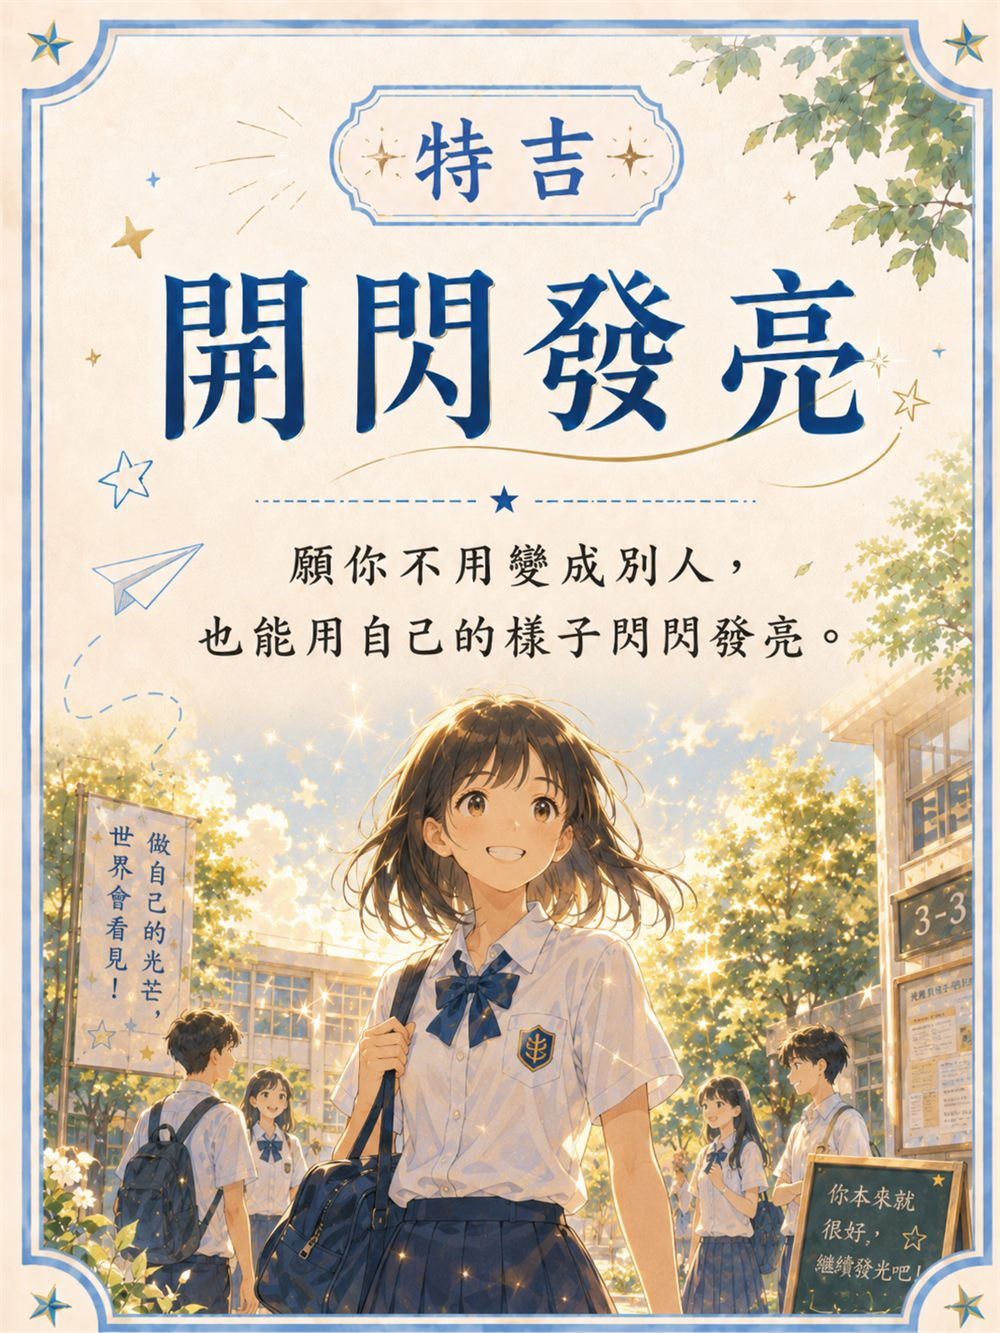
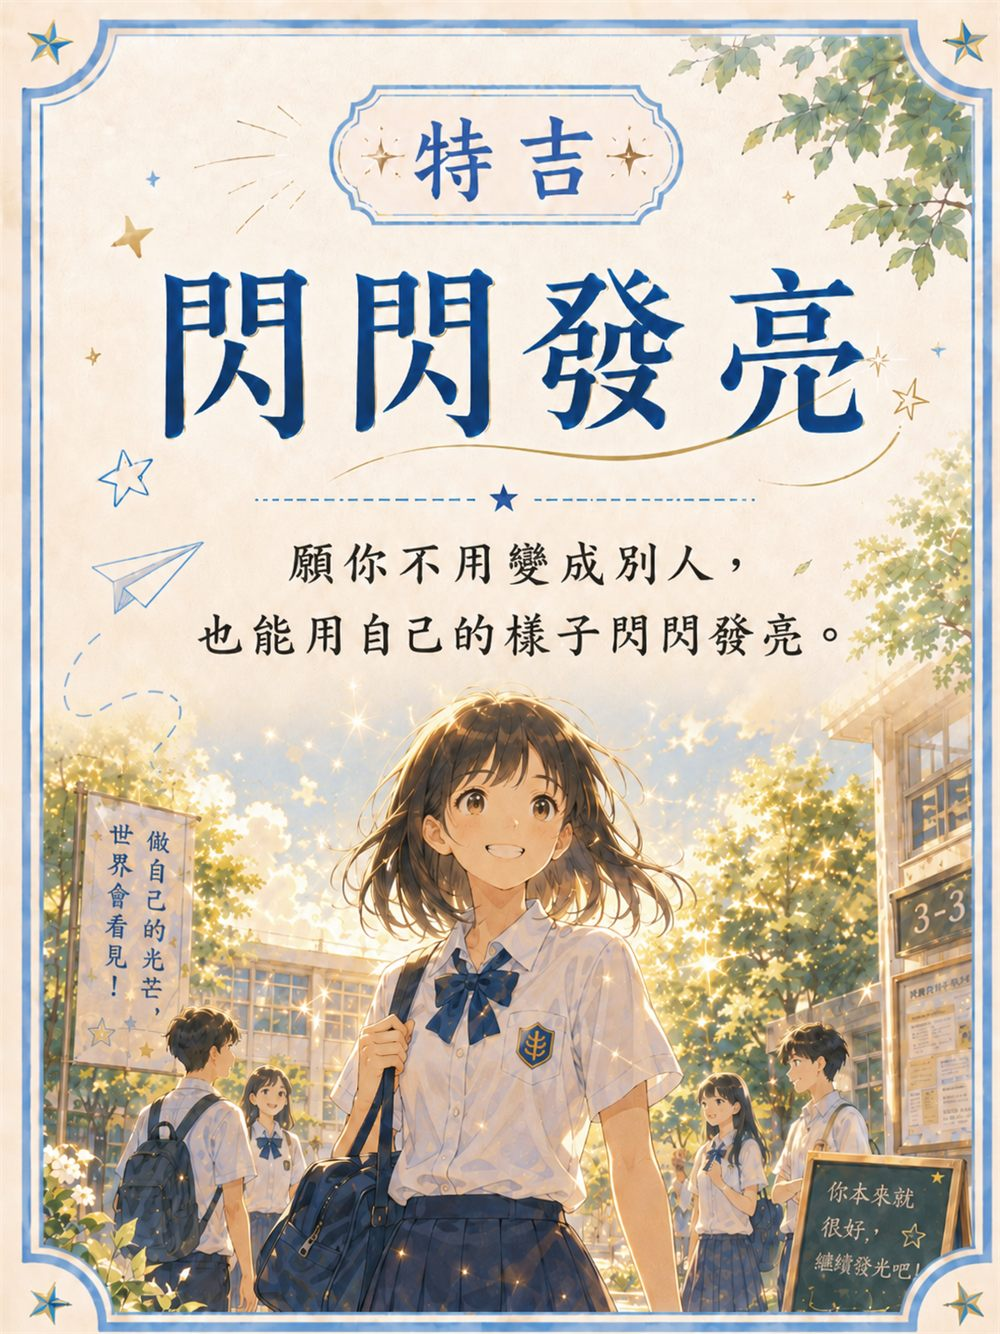
Update card28 image

diff --git a/index.html b/index.html
@@ -354,7 +354,7 @@
     const remainingCount = document.querySelector("#remainingCount");
     const drawnCount = document.querySelector("#drawnCount");
     const resultText = document.querySelector("#resultText");
-    const assetVersion = "20260611-4";
+    const assetVersion = "20260611-5";
     const imageCache = new Map();
 
     let remaining = shuffle([...cards]);